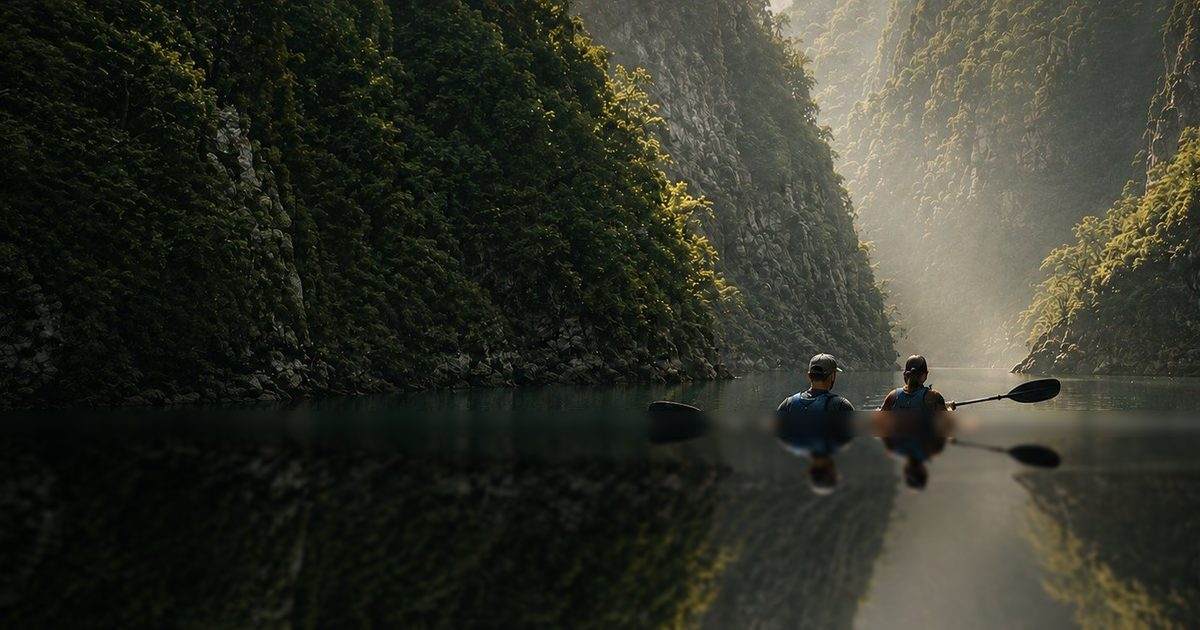
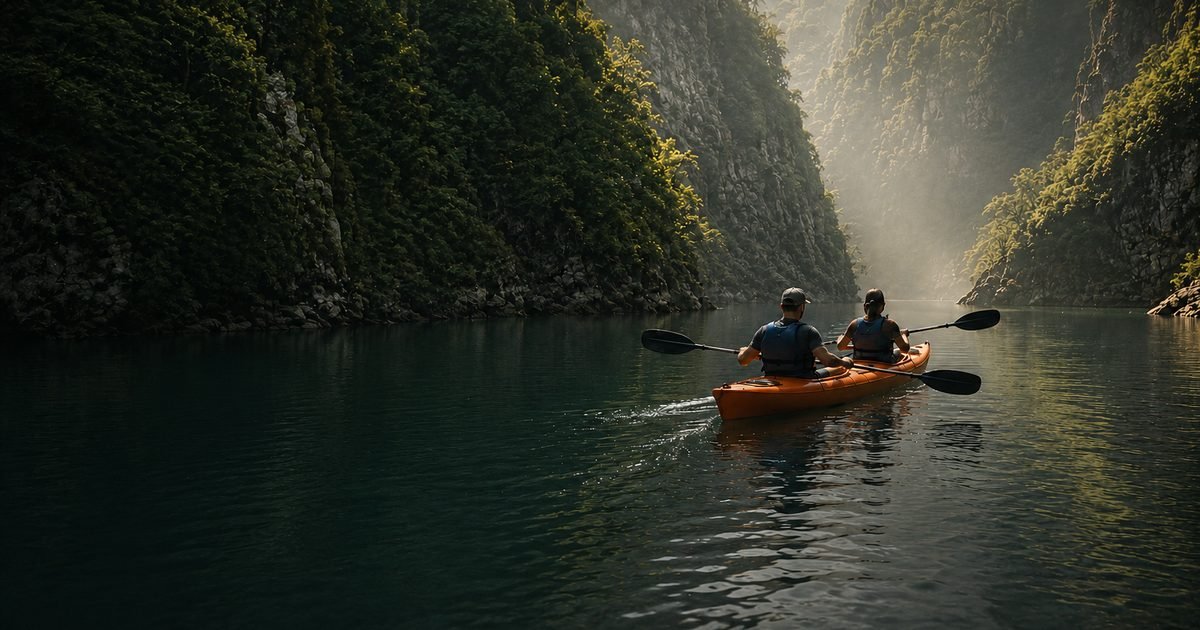
Use original full-res hero image supplied by Jeremy
Replaces the reconstructed hero with design/hero-kayak-final.png (complete
kayak, no fabricated water). OG image and CSS blur placeholder regenerated.
Interlude remains interim.

diff --git a/src/styles/global.css b/src/styles/global.css
@@ -103,7 +103,7 @@ button, a { -webkit-tap-highlight-color: transparent; }
   inset: 0;
   background-image:
     url("/images/hero.jpg"),
[2 lines of base64/hex data omitted]
   background-size: cover, cover;
   background-position: center, center;
   transform: scale(1.035);

diff --git a/README.md b/README.md
@@ -30,6 +30,7 @@ deploy elsewhere.
 
 ## Images
 
-`public/images/hero.jpg` and `interlude.jpg` are interim assets recovered from the
-design file (bottom regions reconstructed). Regenerate at full quality with
-Higgsfield (image-to-image from these references) and replace in place.
+`public/images/hero.jpg` is exported from the original source in
+`design/hero-kayak-final.png`. `interlude.jpg` is still an interim asset recovered
+from the design file (bottom region reconstructed) — replace with the original
+seaside image, or regenerate hi-res with Higgsfield, when available.